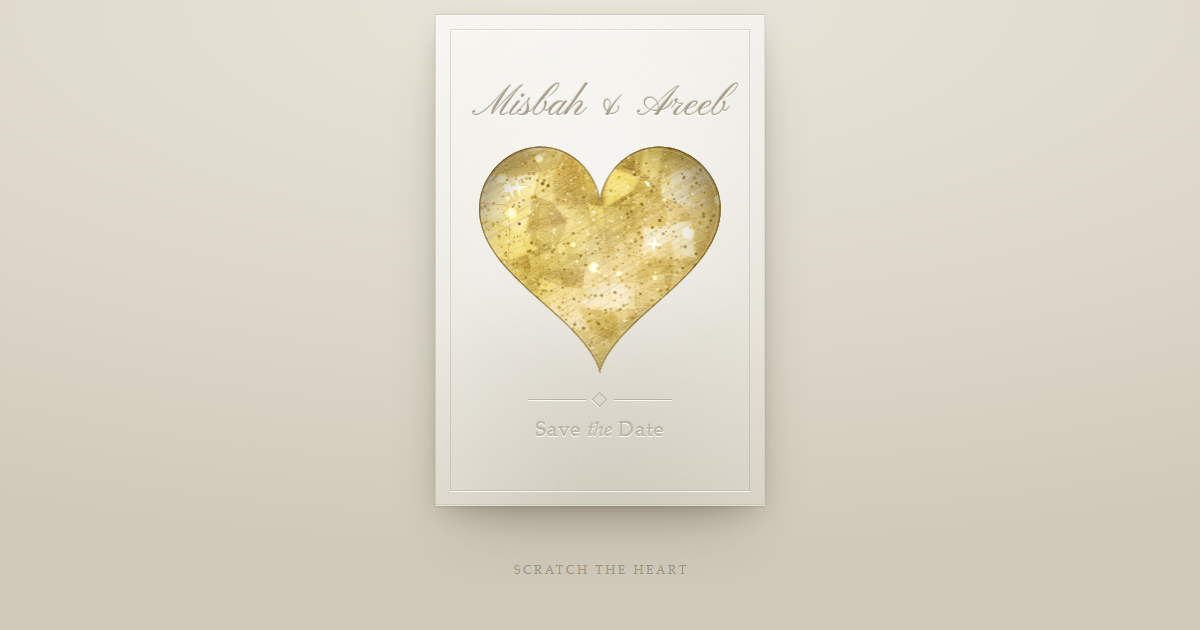
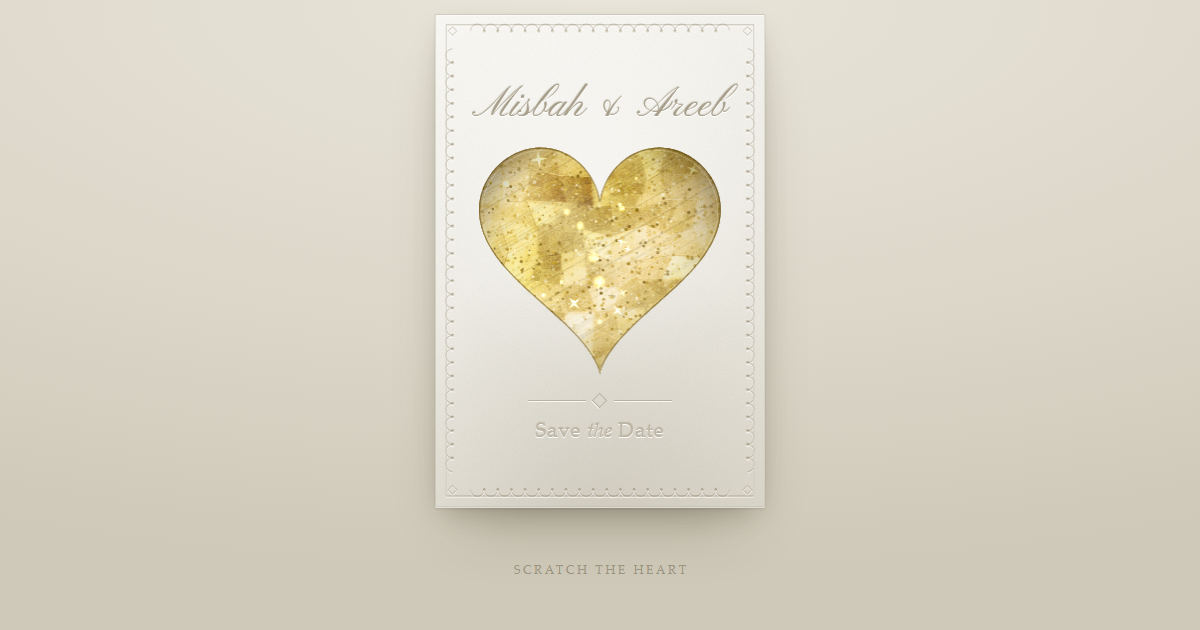
Add a scalloped lace frame to the card
Replaces the plain hairline rule with blind-embossed lace: a double rule,
scalloped edging, a picot dot in each cusp and a lozenge at each corner,
echoing the ornament already on the card face.

Generated against the card's pixel box rather than authored as fixed path
data. Each edge fits its own scallop count so the arcs divide it exactly;
a shared count would leave a part-scallop in a corner at some widths, and
a stretched viewBox would make the arcs elliptical on a portrait card.

diff --git a/index.html b/index.html
@@ -112,15 +112,15 @@
     z-index:1;
   }
 
-  /* blind-embossed border rule */
-  .card::after{
-    content:"";
+  /* The lace frame, in place of the old plain rule. Drawn in JS against the
+     card's pixel box rather than authored as fixed path data: the scallops have
+     to stay circular and divide evenly into each edge at any card width, which
+     a stretched viewBox cannot do. */
+  .lace{
     position:absolute;
-    inset:4.2cqw;
-    border:1px solid rgba(150,140,116,.26);
-    box-shadow:
-      0 1px 0 rgba(255,255,255,.75),
-      0 1px 0 rgba(255,255,255,.75) inset;
+    inset:0;
+    width:100%;
+    height:100%;
     pointer-events:none;
     z-index:2;
   }
@@ -471,6 +471,7 @@
 
 <main class="card" id="card">
   <div class="vignette"></div>
+  <svg class="lace" id="lace" aria-hidden="true"></svg>
 
   <div class="stack">
     <h1 class="names deboss">Misbah &amp; Areeb</h1>
@@ -606,6 +607,93 @@
     for (const id of ['ip-dark', 'ip-light', 'ip-foil'])
       document.getElementById(id).setAttribute('d', d);
   })();
+
+  /* ---------- the lace frame ---------- */
+
+  // Scalloped edging with picot dots and a lozenge at each corner, blind
+  // embossed into the stock. Each edge gets its own scallop count so the arcs
+  // divide it exactly — a fixed count would leave a part-scallop in the corner
+  // on some card widths, which is the one thing that would read as sloppy.
+  const lace = document.getElementById('lace');
+
+  function buildLace(){
+    const w = card.clientWidth, h = card.clientHeight;
+    if (!w || !h) return;
+
+    const inset = w * .050;        // where the lace sits in from the trim
+    const corner = w * .055;       // the span each corner lozenge reserves
+    const target = w * .021;       // scallop radius, before fitting
+    const rule = Math.max(.6, w * .0022);
+
+    const L = inset, R = w - inset, T = inset, B = h - inset;
+
+    // One edge of scallops: half-circles bulging inward, fitted to the span.
+    // Travel is a direction vector, so the two edges that run right-to-left and
+    // bottom-to-top fit exactly like the other two rather than measuring a
+    // negative span. The cusps come back with the path for the picots to use.
+    const edge = (x0, y0, x1, y1) => {
+      const dx = Math.sign(x1 - x0), dy = Math.sign(y1 - y0);
+      const span = Math.abs(x1 - x0) + Math.abs(y1 - y0);
+      if (span <= 0) return null;
+      const n = Math.max(2, Math.round(span / (2 * target)));
+      const r = span / (2 * n);
+      const cusps = [];
+      let d = 'M' + x0.toFixed(2) + ' ' + y0.toFixed(2);
+      for (let i = 1; i <= n; i++){
+        const px = x0 + dx * i * 2 * r, py = y0 + dy * i * 2 * r;
+        d += 'A' + r.toFixed(2) + ' ' + r.toFixed(2) + ' 0 0 1 ' +
+             px.toFixed(2) + ' ' + py.toFixed(2);
+        if (i < n) cusps.push([px, py]);
+      }
+      return { d, cusps };
+    };
+
+    // clockwise, so a single sweep flag bulges every edge inward
+    const edges = [
+      edge(L + corner, T, R - corner, T),
+      edge(R, T + corner, R, B - corner),
+      edge(R - corner, B, L + corner, B),
+      edge(L, B - corner, L, T + corner),
+    ].filter(Boolean);
+
+    let stroke = edges.map(e => e.d).join(' ');
+
+    // the outer hairline, held off the scallops — a double rule, as engraved
+    const o = inset - w * .019;
+    stroke += ' M' + o + ' ' + o + ' H' + (w - o) + ' V' + (h - o) +
+              ' H' + o + ' Z';
+
+    // corner lozenges, the same rotated square as the rule on the card face
+    const lz = w * .013;
+    for (const [cx, cy] of [[L, T], [R, T], [R, B], [L, B]]){
+      stroke += ' M' + cx + ' ' + (cy - lz) + 'L' + (cx + lz) + ' ' + cy +
+                'L' + cx + ' ' + (cy + lz) + 'L' + (cx - lz) + ' ' + cy + 'Z';
+    }
+
+    // picots: a dot in the cusp between neighbouring scallops
+    let dots = '';
+    const dot = (x, y, r) =>
+      'M' + (x - r) + ' ' + y + 'a' + r + ' ' + r + ' 0 1 0 ' + (2 * r) + ' 0' +
+      'a' + r + ' ' + r + ' 0 1 0 ' + (-2 * r) + ' 0Z';
+    const pr = Math.max(.7, w * .0042);
+    for (const e of edges) for (const [x, y] of e.cusps) dots += dot(x, y, pr);
+
+    const path = (d, fill, stroked, dy, colour, alpha) =>
+      '<path d="' + d + '" transform="translate(0 ' + dy + ')" ' +
+      (fill ? 'fill="' + colour + '" fill-opacity="' + alpha + '" stroke="none"'
+            : 'fill="none" stroke="' + colour + '" stroke-opacity="' + alpha +
+              '" stroke-width="' + rule + '" stroke-linejoin="round"') + '/>';
+
+    // pressed into the paper: a dark edge above, a lit edge below
+    lace.setAttribute('viewBox', '0 0 ' + w + ' ' + h);
+    lace.innerHTML =
+      path(stroke, false, true, -0.7, '#6f6449', .30) +
+      path(dots,   true,  false, -0.7, '#6f6449', .34) +
+      path(stroke, false, true,  0.9, '#ffffff', .80) +
+      path(dots,   true,  false,  0.9, '#ffffff', .85) +
+      path(stroke, false, true,  0,   '#a89e83', .34) +
+      path(dots,   true,  false,  0,   '#a89e83', .40);
+  }
 
   /* ---------- the foil plate ---------- */
 
@@ -1325,6 +1413,7 @@
 
   /* ---------- boot ---------- */
 
+  new ResizeObserver(buildLace).observe(card);
   new ResizeObserver(resizeFoil).observe(foil);
   new ResizeObserver(resizeFx).observe(document.documentElement);
   addEventListener('resize', resizeFx);
